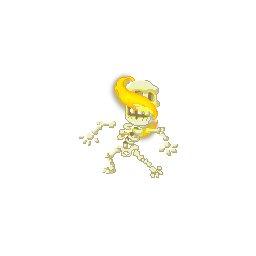
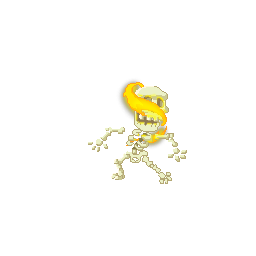
Updated flame death animations

Changed region(s): [[0.3125, 0.2812, 0.75, 0.7188]]

diff --git a/source/components/CastingFlameBreathOnlyEnemyAIComponent.cpp b/source/components/CastingFlameBreathOnlyEnemyAIComponent.cpp
@@ -22,7 +22,7 @@
 #include "../ServiceLocator.h"
 #include "../game/Level.h"
 
-const float CastingFlameBreathOnlyEnemyAIComponent::FLAME_BREATH_RECHARGE_DURATION = 2.0f;
+const float CastingFlameBreathOnlyEnemyAIComponent::FLAME_BREATH_RECHARGE_DURATION = 4.0f;
 
 CastingFlameBreathOnlyEnemyAIComponent::CastingFlameBreathOnlyEnemyAIComponent(const ServiceLocator& serviceLocator, const EntityId thisEntityId)
     : mServiceLocator(serviceLocator)
@@ -35,8 +35,10 @@ CastingFlameBreathOnlyEnemyAIComponent::CastingFlameBreathOnlyEnemyAIComponent(c
     , mIsKilled(false)
 {
     mEntityComponentManager.GetComponent<AnimationComponent>(mThisEntityId).SetSpecificAnimationDisplacement(StringId("flame_breath"), glm::vec2(100.0f, 20.0f));
+    mEntityComponentManager.GetComponent<AnimationComponent>(mThisEntityId).SetSpecificAnimationDisplacement(StringId("flame_death"), glm::vec2(5.0f, 10.0f));
     mEntityComponentManager.GetComponent<AnimationComponent>(mThisEntityId).SetSpecificAnimationDisplacement(StringId("melee"), glm::vec2(13.0f, 8.0f));
     mEntityComponentManager.GetComponent<AnimationComponent>(mThisEntityId).SetSpecificAnimationFrameDuration(StringId("flame_breath"), 0.06f);
+    mEntityComponentManager.GetComponent<AnimationComponent>(mThisEntityId).SetSpecificAnimationFrameDuration(StringId("flame_death"), 0.06f);
     
     RegisterEventCallbacks();
 }

diff --git a/source/components/BasicNinjaEnemyAIComponent.cpp b/source/components/BasicNinjaEnemyAIComponent.cpp
@@ -44,8 +44,10 @@ BasicNinjaEnemyAIComponent::BasicNinjaEnemyAIComponent(const ServiceLocator& ser
     , mAttackTimer(MELEE_ATTACK_COOLDOWN, [this](){ OnAttackTimerTick(); })
 {
     mEntityComponentManager.GetComponent<AnimationComponent>(mThisEntityId).SetSpecificAnimationDisplacement(StringId("flame_breath"), glm::vec2(100.0f, 20.0f));
+    mEntityComponentManager.GetComponent<AnimationComponent>(mThisEntityId).SetSpecificAnimationDisplacement(StringId("flame_death"), glm::vec2(5.0f, 10.0f));
     mEntityComponentManager.GetComponent<AnimationComponent>(mThisEntityId).SetSpecificAnimationDisplacement(StringId("melee"), glm::vec2(13.0f, 8.0f));
     mEntityComponentManager.GetComponent<AnimationComponent>(mThisEntityId).SetSpecificAnimationFrameDuration(StringId("flame_breath"), 0.06f);
+    mEntityComponentManager.GetComponent<AnimationComponent>(mThisEntityId).SetSpecificAnimationFrameDuration(StringId("flame_death"), 0.06f);
     
     mEventCommunicator->RegisterEventCallback<AnnouncePlayerEntityIdEvent>([this](const IEvent& event) 
     {

diff --git a/source/rendering/CoreRenderingService.cpp b/source/rendering/CoreRenderingService.cpp
@@ -152,8 +152,7 @@ void CoreRenderingService::GameLoop(std::function<void(const float)> appUpdateMe
             framesAccumulator = 0;
             dtAccumulator = 0.0f;
         }
-#endif
-        
+#endif        
         // Execute first pass rendering
         GL_CHECK(glBindFramebuffer(GL_FRAMEBUFFER, mFrameBufferId));
         GL_CHECK(glClearColor(0.1f, 0.1f, 0.1f, 1.0f));
@@ -548,7 +547,7 @@ void CoreRenderingService::RenderEntityInternal(const EntityId entityId)
     const auto& animationComponent = mEntityComponentManager->GetComponent<AnimationComponent>(entityId);
     GL_CHECK(glBindTexture(GL_TEXTURE_2D, animationComponent.GetCurrentFrameResourceId()));
     
-    if (mCurrentShader.GetString() == "basic")
+    if (StringStartsWith(mCurrentShader.GetString(), "basic"))
     {
         const auto textureFlip = animationComponent.GetCurrentFacingDirection() == FacingDirection::LEFT ? 1 : 0;
         GL_CHECK(glUniform1i(mShaders[mCurrentShader]->GetUniformNamesToLocations().at(StringId("flip_tex_hor")), textureFlip));
